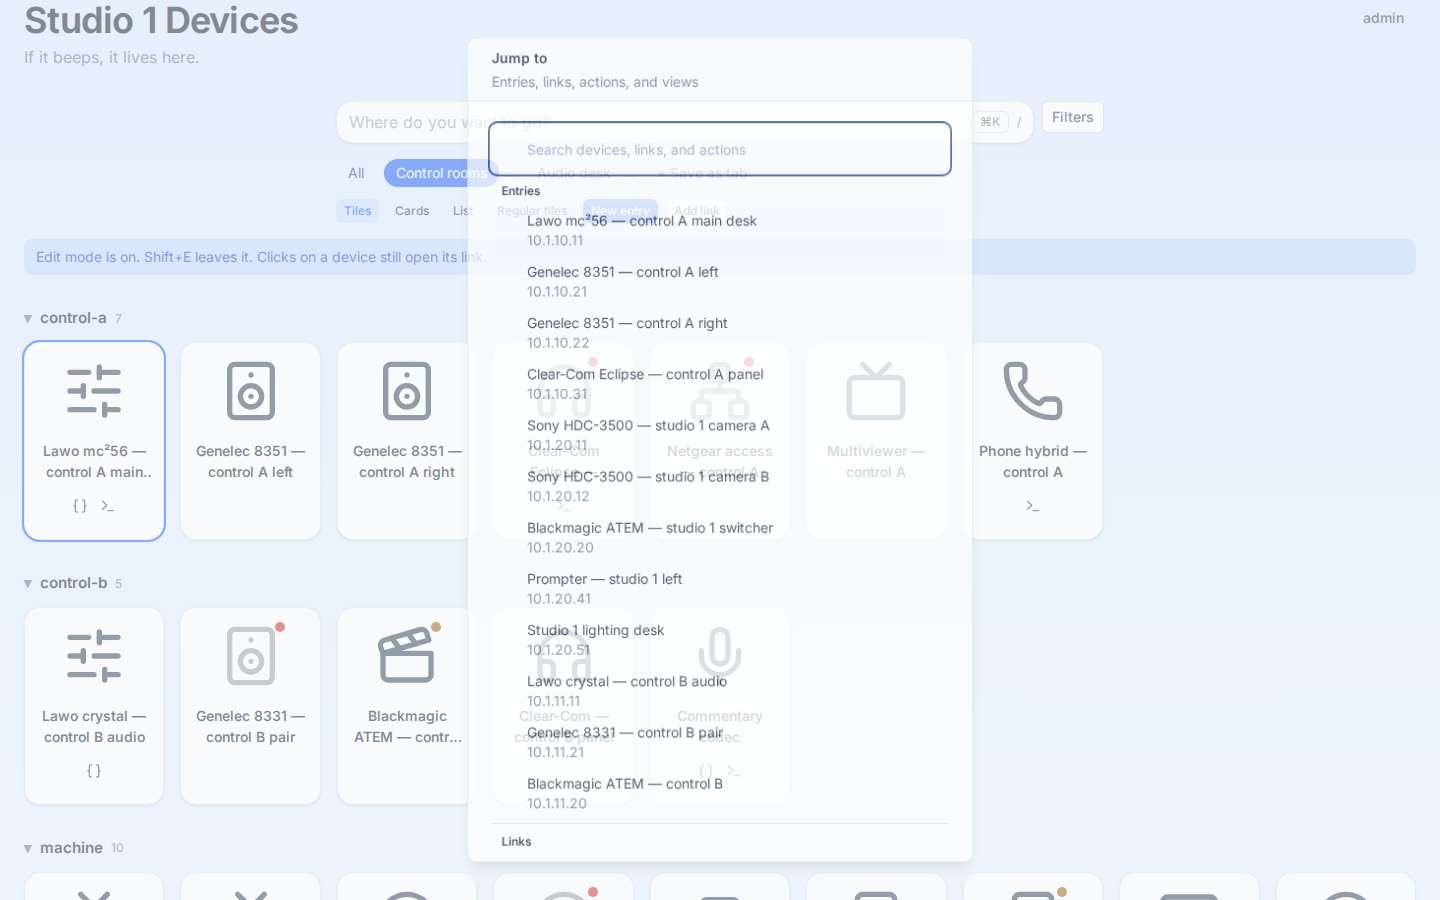
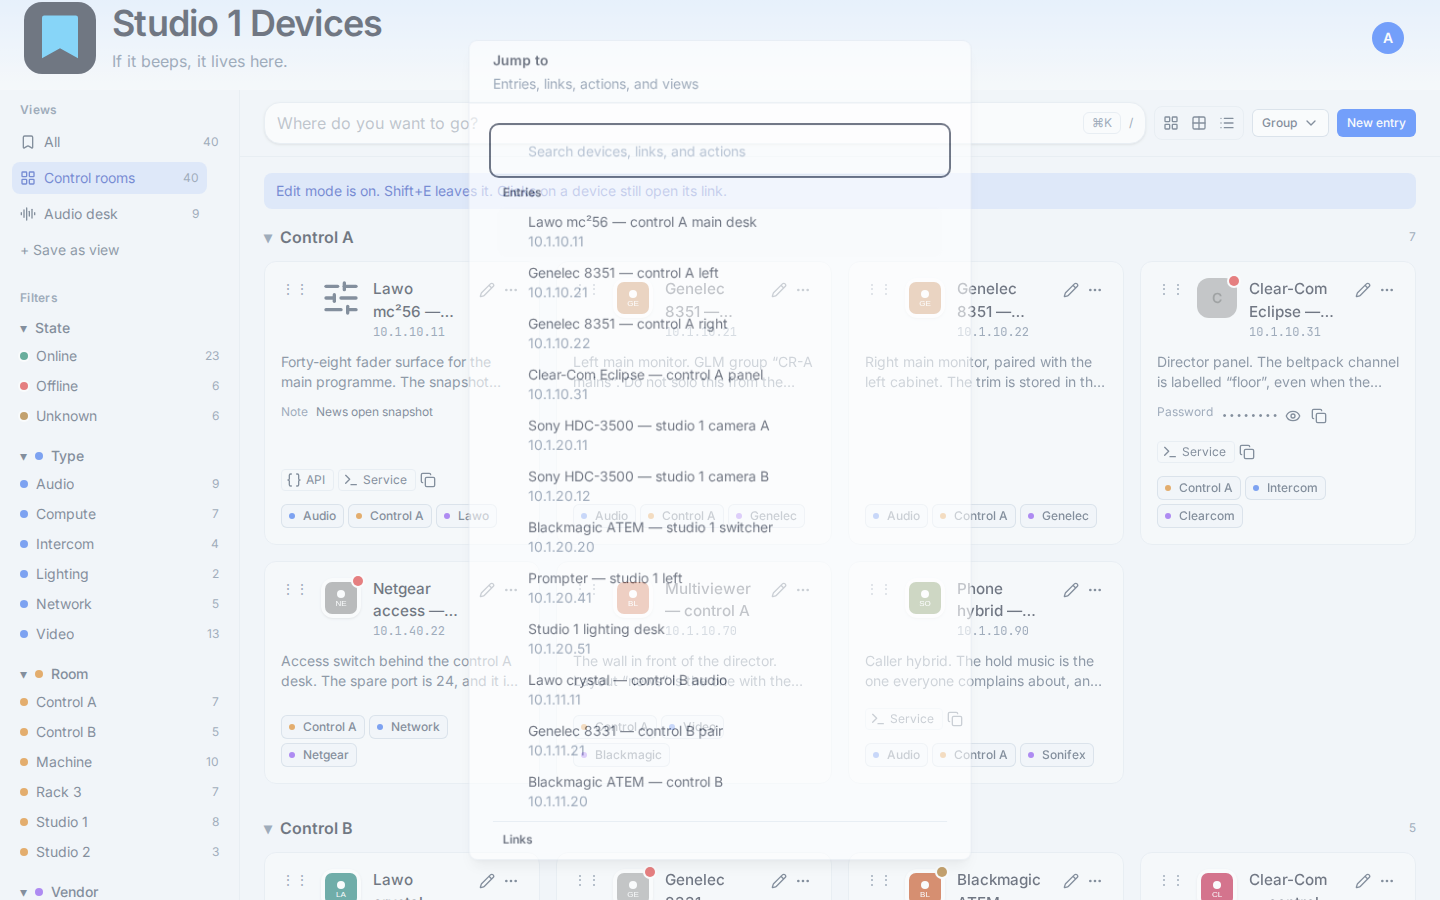
docs: record the app shell and replace the portal shots
SPEC, the API notes, and the decisions log follow the sidebar layout.
The UI images are from the production build.

diff --git a/docs/SPEC.md b/docs/SPEC.md
@@ -94,7 +94,9 @@ objects also `created_by`, `updated_by`.
 
 ### 4.3 Tags
 Tags are `namespace:value` (e.g. `type:audio`, `room:studio3`, `vendor:lawo`) or plain
-`value` without namespace. Many-to-many with entries.
+`value` without namespace. Many-to-many with entries. A tag may also store
+`display_label`, shown in headings, facets, and badges. The query token stays
+`namespace:value`.
 
 **Tag namespaces** are admin-managed: `name`, `label`, `colour`, `sort`,
 `show_in_sidebar`. Unknown namespaces used via API/Ansible are auto-created with defaults.
@@ -103,7 +105,7 @@ Tags are `namespace:value` (e.g. `type:audio`, `room:studio3`, `vendor:lawo`) or
 `name`, `query` (§5), `owner_user_id` (`null` = global, set by admin), `columns`
 (which custom fields to show and in which order), `group_by` (optional tag namespace),
 `sort`, `icon`, `view_mode` (`list` | `cards` | `tiles`; new filters default to
-`tiles`, and the column default stays `list` so existing rows are unchanged), `public`
+`cards`, and the column default stays `list` so existing rows are unchanged), `public`
 (global filters only: visible to anonymous users).
 
 - Global filters appear first as tabs for everybody who may see them, personal filters
@@ -336,32 +338,33 @@ recognise a device by its icon and open it. Editing is rare. The page is not a d
 there is no status column, latency, or metric in the portal. Check latency stays in
 Prometheus and in the icon tooltip.
 
-Desktop-first, responsive, English only. The portal is a titled page with the site name
-from settings. Admin keeps one collapsible sidebar and a navbar toggle that opens it as a
-drawer on a narrow screen.
+Desktop-first, responsive, English only. The portal is an app shell: a full-width banner,
+a side nav of views and filters, and a content area. Admin keeps its own collapsible
+sidebar and a navbar toggle that opens it as a drawer on a narrow screen.
 
 - **Theme:** one accent and one neutral palette, stored in settings and applied on the
   server so the first paint matches. Named presets use the vivid Tailwind scales Red,
   Yellow (amber), Pink, Green, Cyan, Blue, and Grey (slate). A custom hex keeps its chroma
   and hue and only changes lightness. Filled controls use a step that reaches 4.5:1, not a
-  desaturated seed. The background is `gradient` (default), `tint`, or `plain`. Text on
-  the wash and text on the link surfaces both meet 4.5:1. Tag text uses black or white
-  against the namespace colour (3:1). The status dot meets 3:1 against the light icon
-  plate. The admin sets the default colour mode; a signed-in user can override it, and an
-  anonymous visitor keeps the choice in a cookie.
+  desaturated seed. The background setting (`gradient`, `tint`, or `plain`) paints the
+  banner only. The content area stays neutral. Warm accents suggest the stone neutral and
+  cool accents suggest slate, unless the admin picks another neutral afterwards. Banner
+  text meets 4.5:1 against the banner. Text on cards meets 4.5:1 against the card. Tag
+  text uses black or white against the namespace colour (3:1). The status dot meets 3:1
+  against the light icon plate. The admin sets the default colour mode; a signed-in user
+  can override it, and an anonymous visitor keeps the choice in a cookie.
 - **Browser tab:** a bookmark glyph in the accent colour, or an uploaded PNG/WebP, served
   from `/api/v1/favicon` on this origin.
-- **Header:** optional logo, the site title, and the claim. The right side is the user
-  menu or Sign in. Colour mode, edit mode, Admin, and sign-out live in that menu.
-- **Search:** a centred query bar with `⌘K` and `/`. Typing filters immediately. Chips sit
-  inside the bar. The command palette is that same surface.
-- **Tabs:** pills under the search bar. "+ Save as tab" is last, only for a signed-in
-  user, and it is visually quiet.
-- **Filters:** hidden until the Filters button opens a slide-over. Open or closed is
-  stored for a signed-in user and in the `bp-facets` cookie otherwise. Facets show a
-  namespace colour. The selected facet is highlighted. Click adds AND, Shift adds OR, and
-  Alt adds NOT. `state` is a virtual facet (`online`, `offline`, `unknown`) and is not
-  stored as a tag.
+- **Banner:** optional title image (the logo: PNG, JPEG, WebP, or sanitised SVG, up to
+  1 MB), the site title, and the claim. The right side is an initials avatar or Sign in.
+  Colour mode, edit mode, Admin, and sign-out live in that menu. The banner scrolls away.
+- **Sidebar:** views (the saved tabs) with a count, then filter facets. It is about 240px,
+  collapses to icons, and becomes a drawer below 768px. "+ Save as view" is quiet and only
+  for a signed-in user. Facets show a namespace colour and the tag display label. Click
+  adds AND, Shift adds OR, and Alt adds NOT. `state` is a virtual facet and is not stored
+  as a tag. "Clear filters" clears the query bar.
+- **Toolbar:** sticky query bar with `⌘K` and `/`, a segmented control for cards, tiles,
+  and list, and a group menu. The command palette is that same search surface.
 - **Status:** only the favicon changes. Up is unchanged. Down is greyscale and dimmed,
   with a small red corner dot. Unknown keeps the colour and adds a small amber dot. No
   check shows nothing. The icon tooltip may say when a device went offline.
@@ -370,15 +373,16 @@ drawer on a narrow screen.
   and history to everyone, and Edit to an editor. Edit mode is for editors and admins,
   from the user menu or Shift+E, and it lasts for the browser tab only. It shows a banner,
   edit buttons, New entry, Add link, and drag-sort. `e` opens the selected entry only then.
-- **Views:** tiles are the default, including All. A tab can store another default, and
-  the `view` query parameter still wins. Tiles use a 140px minimum (180px when the user
-  picks large tiles) with the favicon on a plate and the name under it. Cards use a 280px
-  minimum with the host, a clamped description, the tab's fields, labelled links, and up
-  to three tags. The list is a dense table, 36px rows or 32px in compact density, with the
-  favicon, name, and host in one cell, then links, description, fields, and tags. Only a
-  sorted column shows an arrow. Below 768px the list is shown as cards. Grouping is a
-  category heading with a count and a collapse control. A missing icon is a letter in a
-  colour derived from the name. Tags are subtle badges; the tooltip is the full label.
+- **Views:** cards are the default, including All. A tab can store another default, and
+  the `view` query parameter still wins. Cards use a 260px minimum: favicon, a two-line
+  title, host, description, only fields that have a value, labelled secondary links, and
+  up to three tags. Tiles are the compact launcher, 48px or 56px icon. The list is a dense
+  table, 36px rows or 32px in compact density, and it stays a list on a narrow screen.
+  Only a sorted column shows an arrow. Grouping is a heading with the tag display label,
+  a count, and a collapse control. A missing icon is a letter in a colour derived from the
+  name. Tags are subtle badges with a namespace dot; the tooltip is the query token.
+  A tag may store `display_label`. Empty means the value is shown. The query token does
+  not change.
 - **Opening an entry:** the whole tile or card is one primary link (`target="_blank"`,
   `rel="noopener noreferrer"`). Secondary links, secret reveal, and menus are real
   controls above that link. In the list, the entry cell is the primary link. Enter still

diff --git a/README.md b/README.md
@@ -36,7 +36,7 @@ Set `ADMIN_USERNAME` and `ADMIN_PASSWORD` to create the first break-glass admin.
 
 The HTTP API is under `/api/v1`. `GET /api/v1/openapi.json` is the OpenAPI document and `/api/v1/docs` lists the routes. Authentication is a session cookie, `Authorization: Bearer`, or trusted proxy headers. See `.env.example`.
 
-The portal is a start page. The title and claim come from settings. Icons come from Lucide, an upload, a fetched favicon on a light plate, or a letter coloured from the name. Tiles are the default. Cards and a dense list are the other views, and the list becomes cards below 768px. Reachability changes only the favicon: offline icons are grey with a red dot, unknown icons keep their colour and gain an amber dot, and a device with no check is unmarked. `state:offline` filters those devices; it is not a stored tag. Actions run on the server from the entry drawer, including templates whose query matches the entry. `GET /metrics` exposes Prometheus text. The query bar, the active tab, and the view (`tiles`, `cards`, or `list`) are stored in the URL. Filters stay in a slide-over until opened. Tag shortcuts add `AND` (click), `OR` (Shift-click), or `NOT` (Alt-click). `/` focuses the query, `Esc` clears it, the arrow keys move the selection, Enter opens the primary link, and Ctrl/Cmd+K opens the command palette. The tile, card, or list name is a real link. Edit mode, for editors and admins, is in the user menu or Shift+E and lasts for that browser tab. `e` opens the selected entry only while edit mode is on. Saving an entry that reuses a name or host asks for confirmation before the write. Admins open Admin from the user menu for the title, claim, logo, theme, page background, users, field definitions, tag namespaces, API tokens, Ansible scopes, backup, CSV import, and the audit log. Logos and the optional browser-tab icon are PNG or WebP, up to 512 KB. `GET /api/v1/events` is the live-update stream.
+The portal is a start page with a banner, a side nav of views and filters, and cards by default. The title and claim come from settings. Icons come from Lucide, an upload, a fetched favicon on a light plate, or a letter coloured from the name. Tiles are the default. Cards and a dense list are the other views, and the list becomes cards below 768px. Reachability changes only the favicon: offline icons are grey with a red dot, unknown icons keep their colour and gain an amber dot, and a device with no check is unmarked. `state:offline` filters those devices; it is not a stored tag. Actions run on the server from the entry drawer, including templates whose query matches the entry. `GET /metrics` exposes Prometheus text. The query bar, the active tab, and the view (`tiles`, `cards`, or `list`) are stored in the URL. Filters stay in a slide-over until opened. Tag shortcuts add `AND` (click), `OR` (Shift-click), or `NOT` (Alt-click). `/` focuses the query, `Esc` clears it, the arrow keys move the selection, Enter opens the primary link, and Ctrl/Cmd+K opens the command palette. The tile, card, or list name is a real link. Edit mode, for editors and admins, is in the user menu or Shift+E and lasts for that browser tab. `e` opens the selected entry only while edit mode is on. Saving an entry that reuses a name or host asks for confirmation before the write. Admins open Admin from the user menu for the title, claim, logo, theme, page background, users, field definitions, tag namespaces, API tokens, Ansible scopes, backup, CSV import, and the audit log. Logos and the optional browser-tab icon are PNG or WebP, up to 512 KB. `GET /api/v1/events` is the live-update stream.
 
 ## Ansible
 

diff --git a/docs/DECISIONS.md b/docs/DECISIONS.md
@@ -101,3 +101,9 @@
 **Decision:** The portal is a start page. Named accent presets copy the vivid Tailwind scales (Yellow uses amber, Grey uses slate) into `--ui-color-primary-*`. The earlier V1 swatches (`#804040`, `#404080`, and the rest) are no longer the seeds; a custom hex still keeps its chroma and only changes lightness. Filled controls and accent text pick a scale step that reaches 4.5:1. The page background is the setting `background`: `gradient` (default), `tint`, or `plain`. Fetched favicons sit on a light plate (`--bp-icon-plate`). Lucide icons are CSS masks in `currentColor`. Reachability changes only that icon: down is greyscale with a red dot, unknown adds an amber dot, and no check adds nothing. `state:online`, `state:offline`, and `state:unknown` are query nodes, not stored tags. `state:unknown` requires a check; `is:unknown` still matches an entry with no checks. Tiles are the default for new filters and for All. The `filters.view_mode` column default stays `list` so existing rows and old backups are unchanged. Edit mode is `sessionStorage` key `bp-edit-mode` for the browser tab, not a server preference. Facet visibility is `user_preferences.facets_open` or the `bp-facets` cookie. Tile size is `user_preferences.tile_size`. Inter is the variable face from `@fontsource-variable/inter`, loaded by `@nuxt/fonts` 1.0.1 with the `npm` provider so the build does not call Google. The CSS family is `Inter Variable`, which supplies weights 550 and 650. The whole tile or card is one primary link; secondary links and secret controls sit above it. Admin navigation is the collapsible sidebar plus the navbar toggle (`Open sidebar` / `Close sidebar`). There is no second link row on the settings page and no global check-defaults template.
 
 **Reason:** The V1 seeds were dark theme values, so Blue rendered as navy and Red as salmon. A start page should lead with the favicon and the click, and keep editing and filters out of the way until they are asked for. Status columns made the page look like a monitor. The virtual `state` namespace answers "what is offline?" without writing tags. Local font files keep the production page on `font-src 'self'`. `img-src` also allows `data:` because the component library paints its icons as SVG data URLs; scripts stay limited to this origin.
+
+## 2026-10-25 – App shell
+
+**Decision:** The accent wash paints the banner only. The content area uses a neutral surface, stone for warm accents and slate for cool ones, unless the admin picks a neutral after the preset. Cards are the default view. The side nav lists views and facets; the filter slide-over is unused and `facets_open` stays in the database. Sidebar collapse is `user_preferences.sidebar_collapsed` or the `bp-sidebar` cookie. Per-tab grouping is `group_modes`. A tag's `display_label` is separate from its query token. The logo accepts PNG, JPEG, WebP, and sanitised SVG up to 1 MB. Below 768px the list stays a list. Edit controls and drag handles are visible only in edit mode. Focus rings use `:focus-visible`.
+
+**Reason:** The round-2 page read as a tinted poster. The Linkwarden shell keeps the start-page behaviour and puts navigation where it can stay out of the cards. Display labels let `control-a` read as "Control A" without changing saved queries.

diff --git a/docs/ansible.md b/docs/ansible.md
@@ -18,15 +18,15 @@ Every module takes `api_url`, `api_token`, and `validate_certs`. The URL and tok
 
 ## Modules
 
-| Module             | Purpose                                           |
-| ------------------ | ------------------------------------------------- |
-| `entry`            | One entry addressed by `scope` and `external_key` |
-| `entries_sync`     | Full list for a scope, with optional `purge`      |
-| `entry_info`       | Query entries with the portal query language      |
-| `tag_namespace`    | One tag namespace                                 |
-| `field_definition` | One custom field                                  |
-| `filter`           | One global tab                                    |
-| `action_template`  | One action template                               |
+| Module             | Purpose                                                                                                                        |
+| ------------------ | ------------------------------------------------------------------------------------------------------------------------------ |
+| `entry`            | One entry addressed by `scope` and `external_key`. A tag is a string, or a mapping with `tag` and an optional display `label`. |
+| `entries_sync`     | Full list for a scope, with optional `purge`                                                                                   |
+| `entry_info`       | Query entries with the portal query language                                                                                   |
+| `tag_namespace`    | One tag namespace                                                                                                              |
+| `field_definition` | One custom field                                                                                                               |
+| `filter`           | One global tab                                                                                                                 |
+| `action_template`  | One action template                                                                                                            |
 
 All of them support check mode and `--diff`, and a second run with the same arguments reports `changed: false`.
 

diff --git a/docs/configuration.md b/docs/configuration.md
@@ -37,4 +37,4 @@ The server reads these variables from the environment. A blank value is treated 
 
 `pnpm seed:demo` writes a local studio catalogue. It uses `DATABASE_PATH` when that variable is set, and otherwise `data/bookmark-demo.db`. Running it again replaces the previous demo entries and tabs.
 
-Favicon TLS verification, the favicon refresh period, the site title, the claim, and whether the All tab is public are admin settings stored in the database, not environment variables. The same settings hold the accent preset, custom accent hex, neutral palette (`slate`, `gray`, `zinc`, `neutral`, `stone`), the default colour mode (`system`, `light`, or `dark`), and the page background (`gradient`, `tint`, or `plain`). A signed-in user can override the colour mode, the view mode of each tab, whether the filter panel is open, and the tile size (`regular` or `large`). Anonymous visitors keep colour mode and view mode in the `bp-color-mode` and `bp-theme` cookies, and the filter panel in `bp-facets`. Edit mode is kept in `sessionStorage` for the browser tab and is not a server preference. The browser-tab icon is the accent bookmark glyph, or a PNG/WebP uploaded next to the logo.
+Favicon TLS verification, the favicon refresh period, the site title, the claim, and whether the All tab is public are admin settings stored in the database, not environment variables. The same settings hold the accent preset, custom accent hex, neutral palette (`slate`, `gray`, `zinc`, `neutral`, `stone`), the default colour mode (`system`, `light`, or `dark`), and the page background (`gradient`, `tint`, or `plain`, painted on the banner). The logo may be PNG, JPEG, WebP, or a sanitised SVG, up to 1 MB. A signed-in user can override the colour mode, the view mode of each tab, whether the filter panel is open, and the tile size (`regular` or `large`). Anonymous visitors keep colour mode and view mode in the `bp-color-mode` and `bp-theme` cookies, and the filter panel in `bp-facets`. Edit mode is kept in `sessionStorage` for the browser tab and is not a server preference. The browser-tab icon is the accent bookmark glyph, or a PNG/WebP uploaded next to the logo.

diff --git a/docs/api.md b/docs/api.md
@@ -48,7 +48,13 @@ Import CSV with `POST /api/v1/import/csv/preview` and `POST /api/v1/import/csv`.
 
 Anonymous callers only receive entries that match a public global filter, or every entry when the All tab is public. Secret fields above the caller’s role are omitted. A secret that is visible is still masked in list and detail payloads (`value` is null and `masked` is true). `POST /api/v1/entries/{id}/fields/{key}/reveal` returns the plaintext and writes an audit row.
 
-Filters accept `viewMode` of `list`, `cards`, or `tiles`. A new filter defaults to `tiles`. Older rows and backup documents may still say `list`.
+Filters accept `viewMode` of `list`, `cards`, or `tiles`. A new filter defaults to `cards`. Older rows and backup documents may still say `list` or `tiles`. `GET /api/v1/filters` includes `count` for each filter and `allCount` for the visible total. Those counts ignore the live search box.
+
+`PATCH /api/v1/tags/{id}` with `{ "displayLabel": "Control A" }` sets the name shown in headings and badges. `null` clears it. The query token stays `namespace:value`. A missing display label falls back to the value. Entry tag lists still accept strings. An item may also be `{ "tag": "room:control-a", "label": "Control A" }`.
+
+The logo accepts PNG, JPEG, WebP, or a sanitised SVG, up to 1 MB. The browser-tab icon stays PNG or WebP at 512 KB.
+
+Signed-in preferences also store `sidebarCollapsed` and per-tab `groupModes`.
 
 `GET /api/v1/preferences` and `PATCH /api/v1/preferences` store a signed-in user's `colourMode`, per-tab `viewModes`, `facetsOpen`, and `tileSize` (`regular` or `large`). `GET /api/v1/favicon` returns the uploaded tab icon or an SVG bookmark in the accent colour. `POST` and `DELETE /api/v1/settings/favicon` manage that upload. Settings also accept `accentPreset`, `neutralPalette`, `defaultColourMode`, and `background` (`gradient`, `tint`, or `plain`).
 

diff --git a/docs/design.md b/docs/design.md
@@ -190,4 +190,4 @@ Shots come from the production build, not the Nuxt dev server.
 
 ## Approval
 
-This brief is the plan. Implementation waits until it is approved.
+Approved on 2026-10-25. The layout in this brief is what the portal implements.
